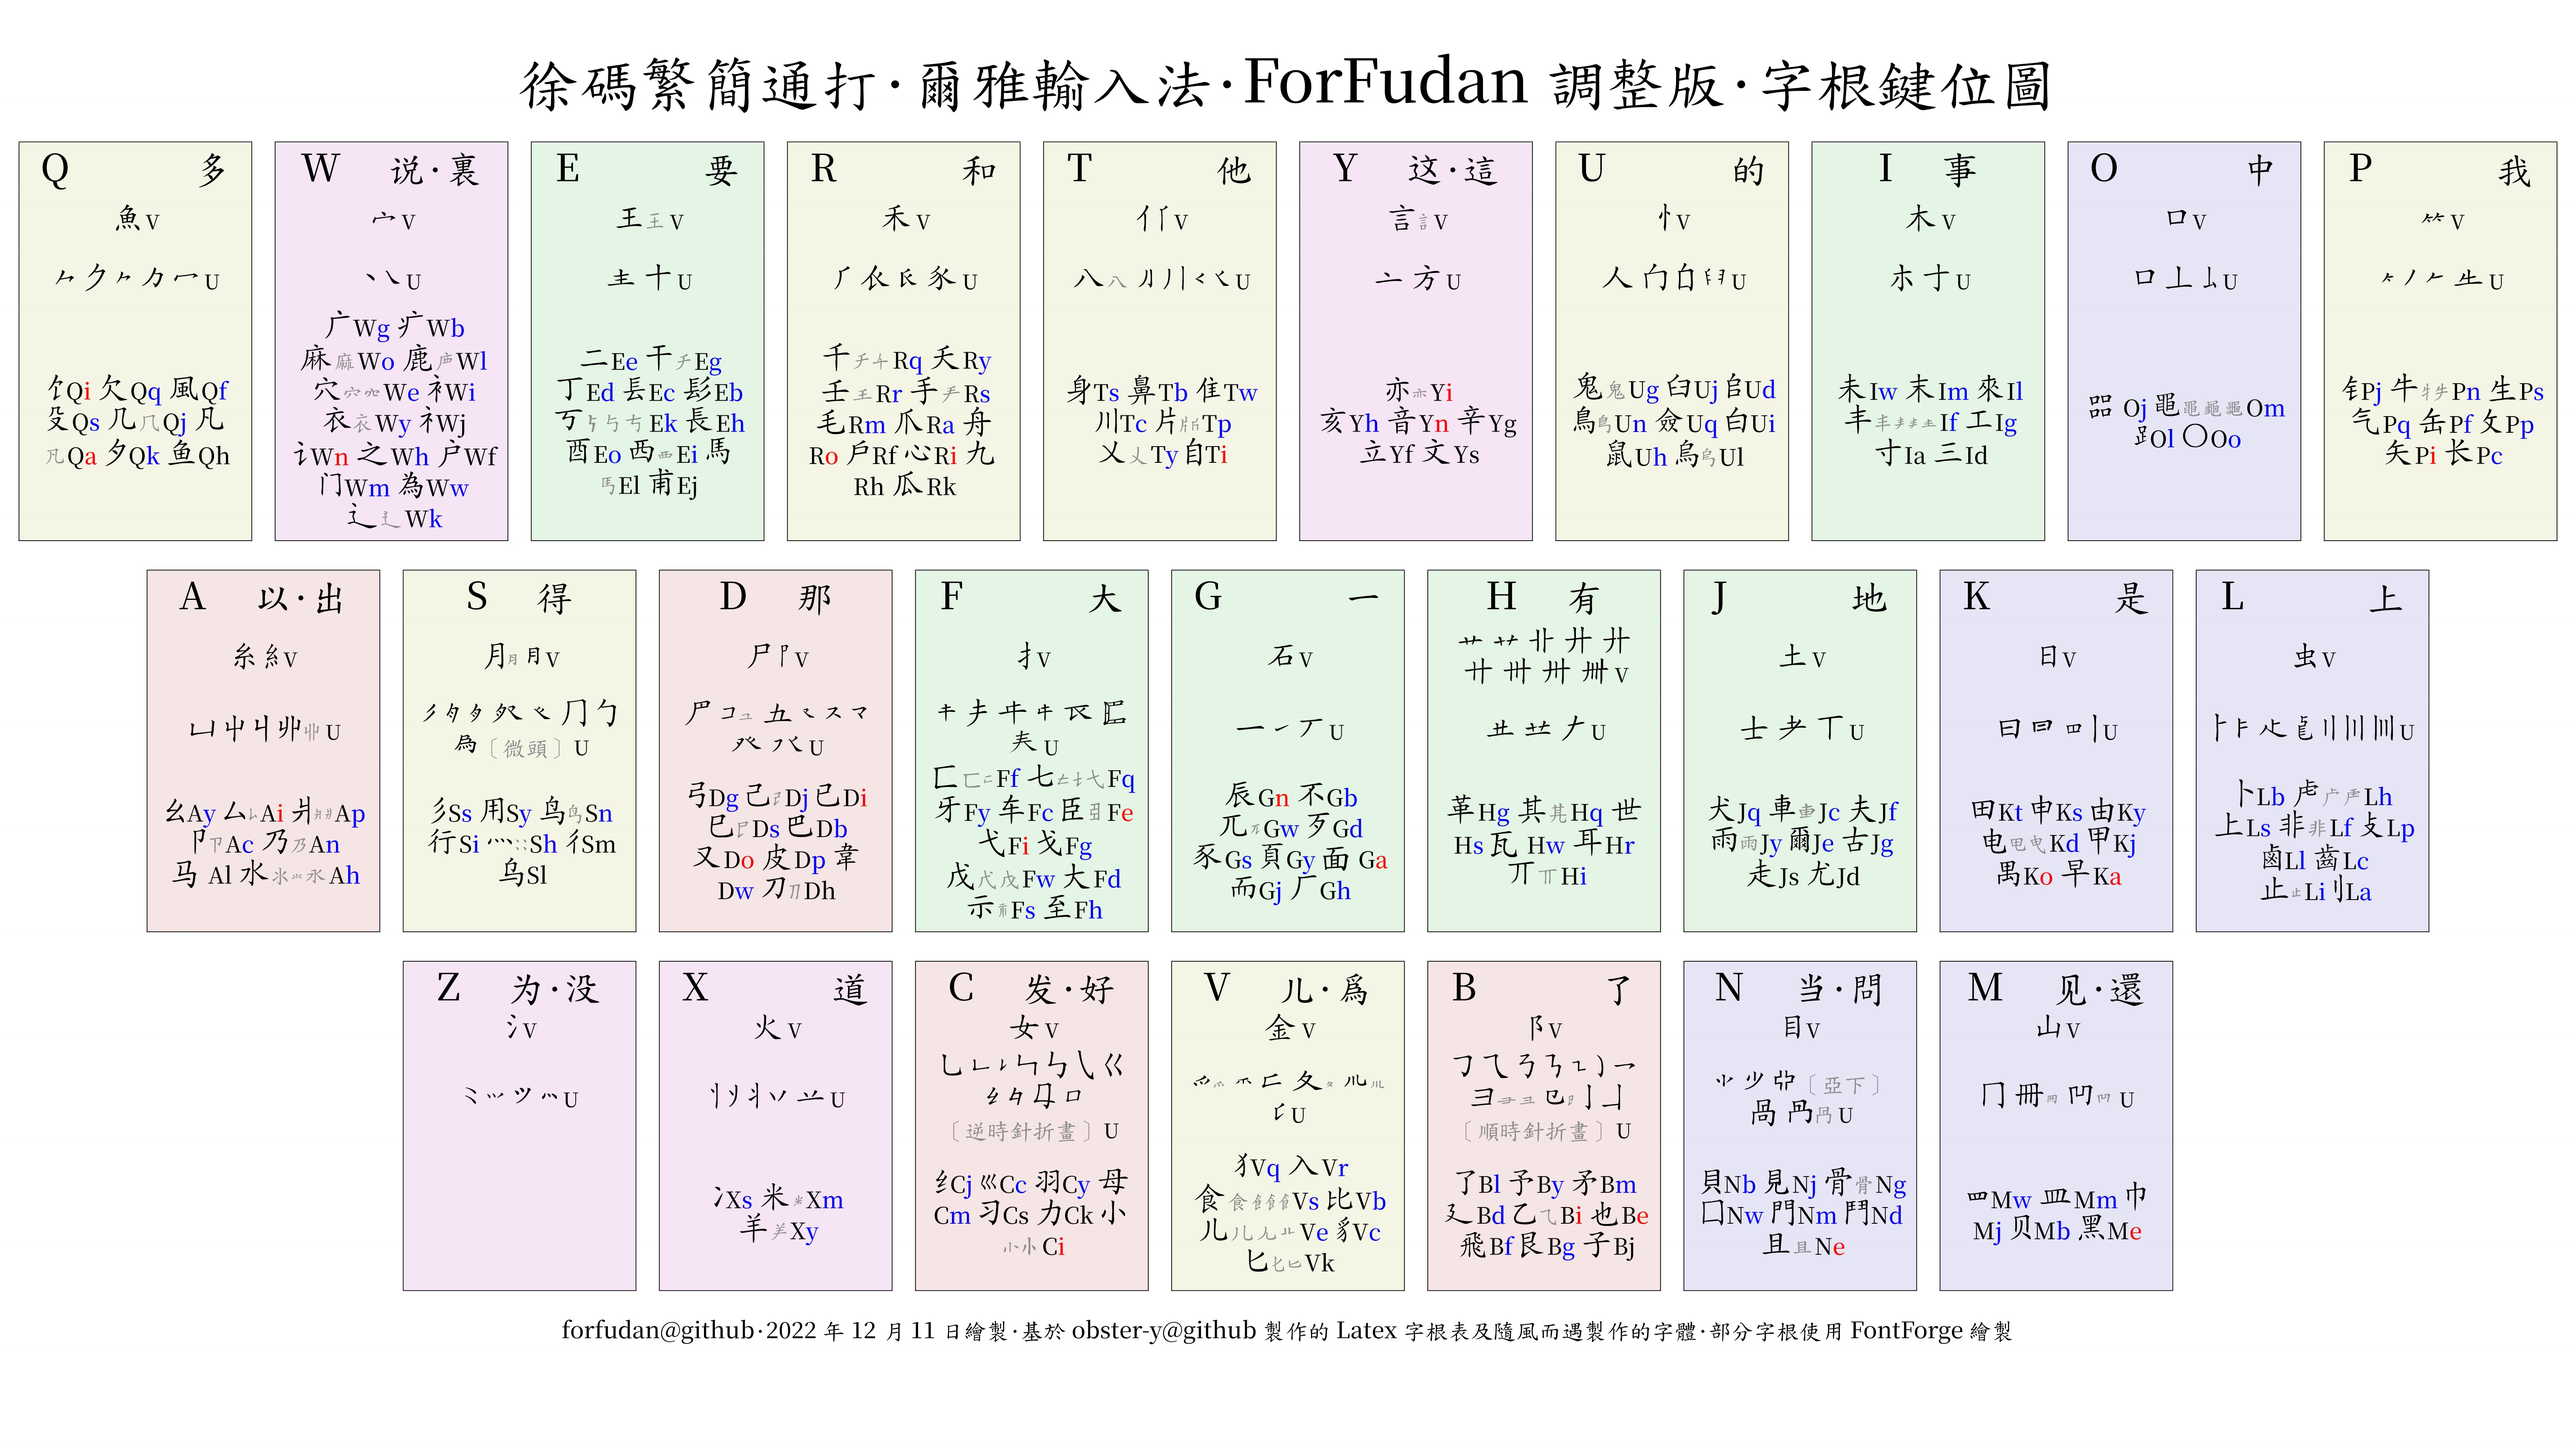
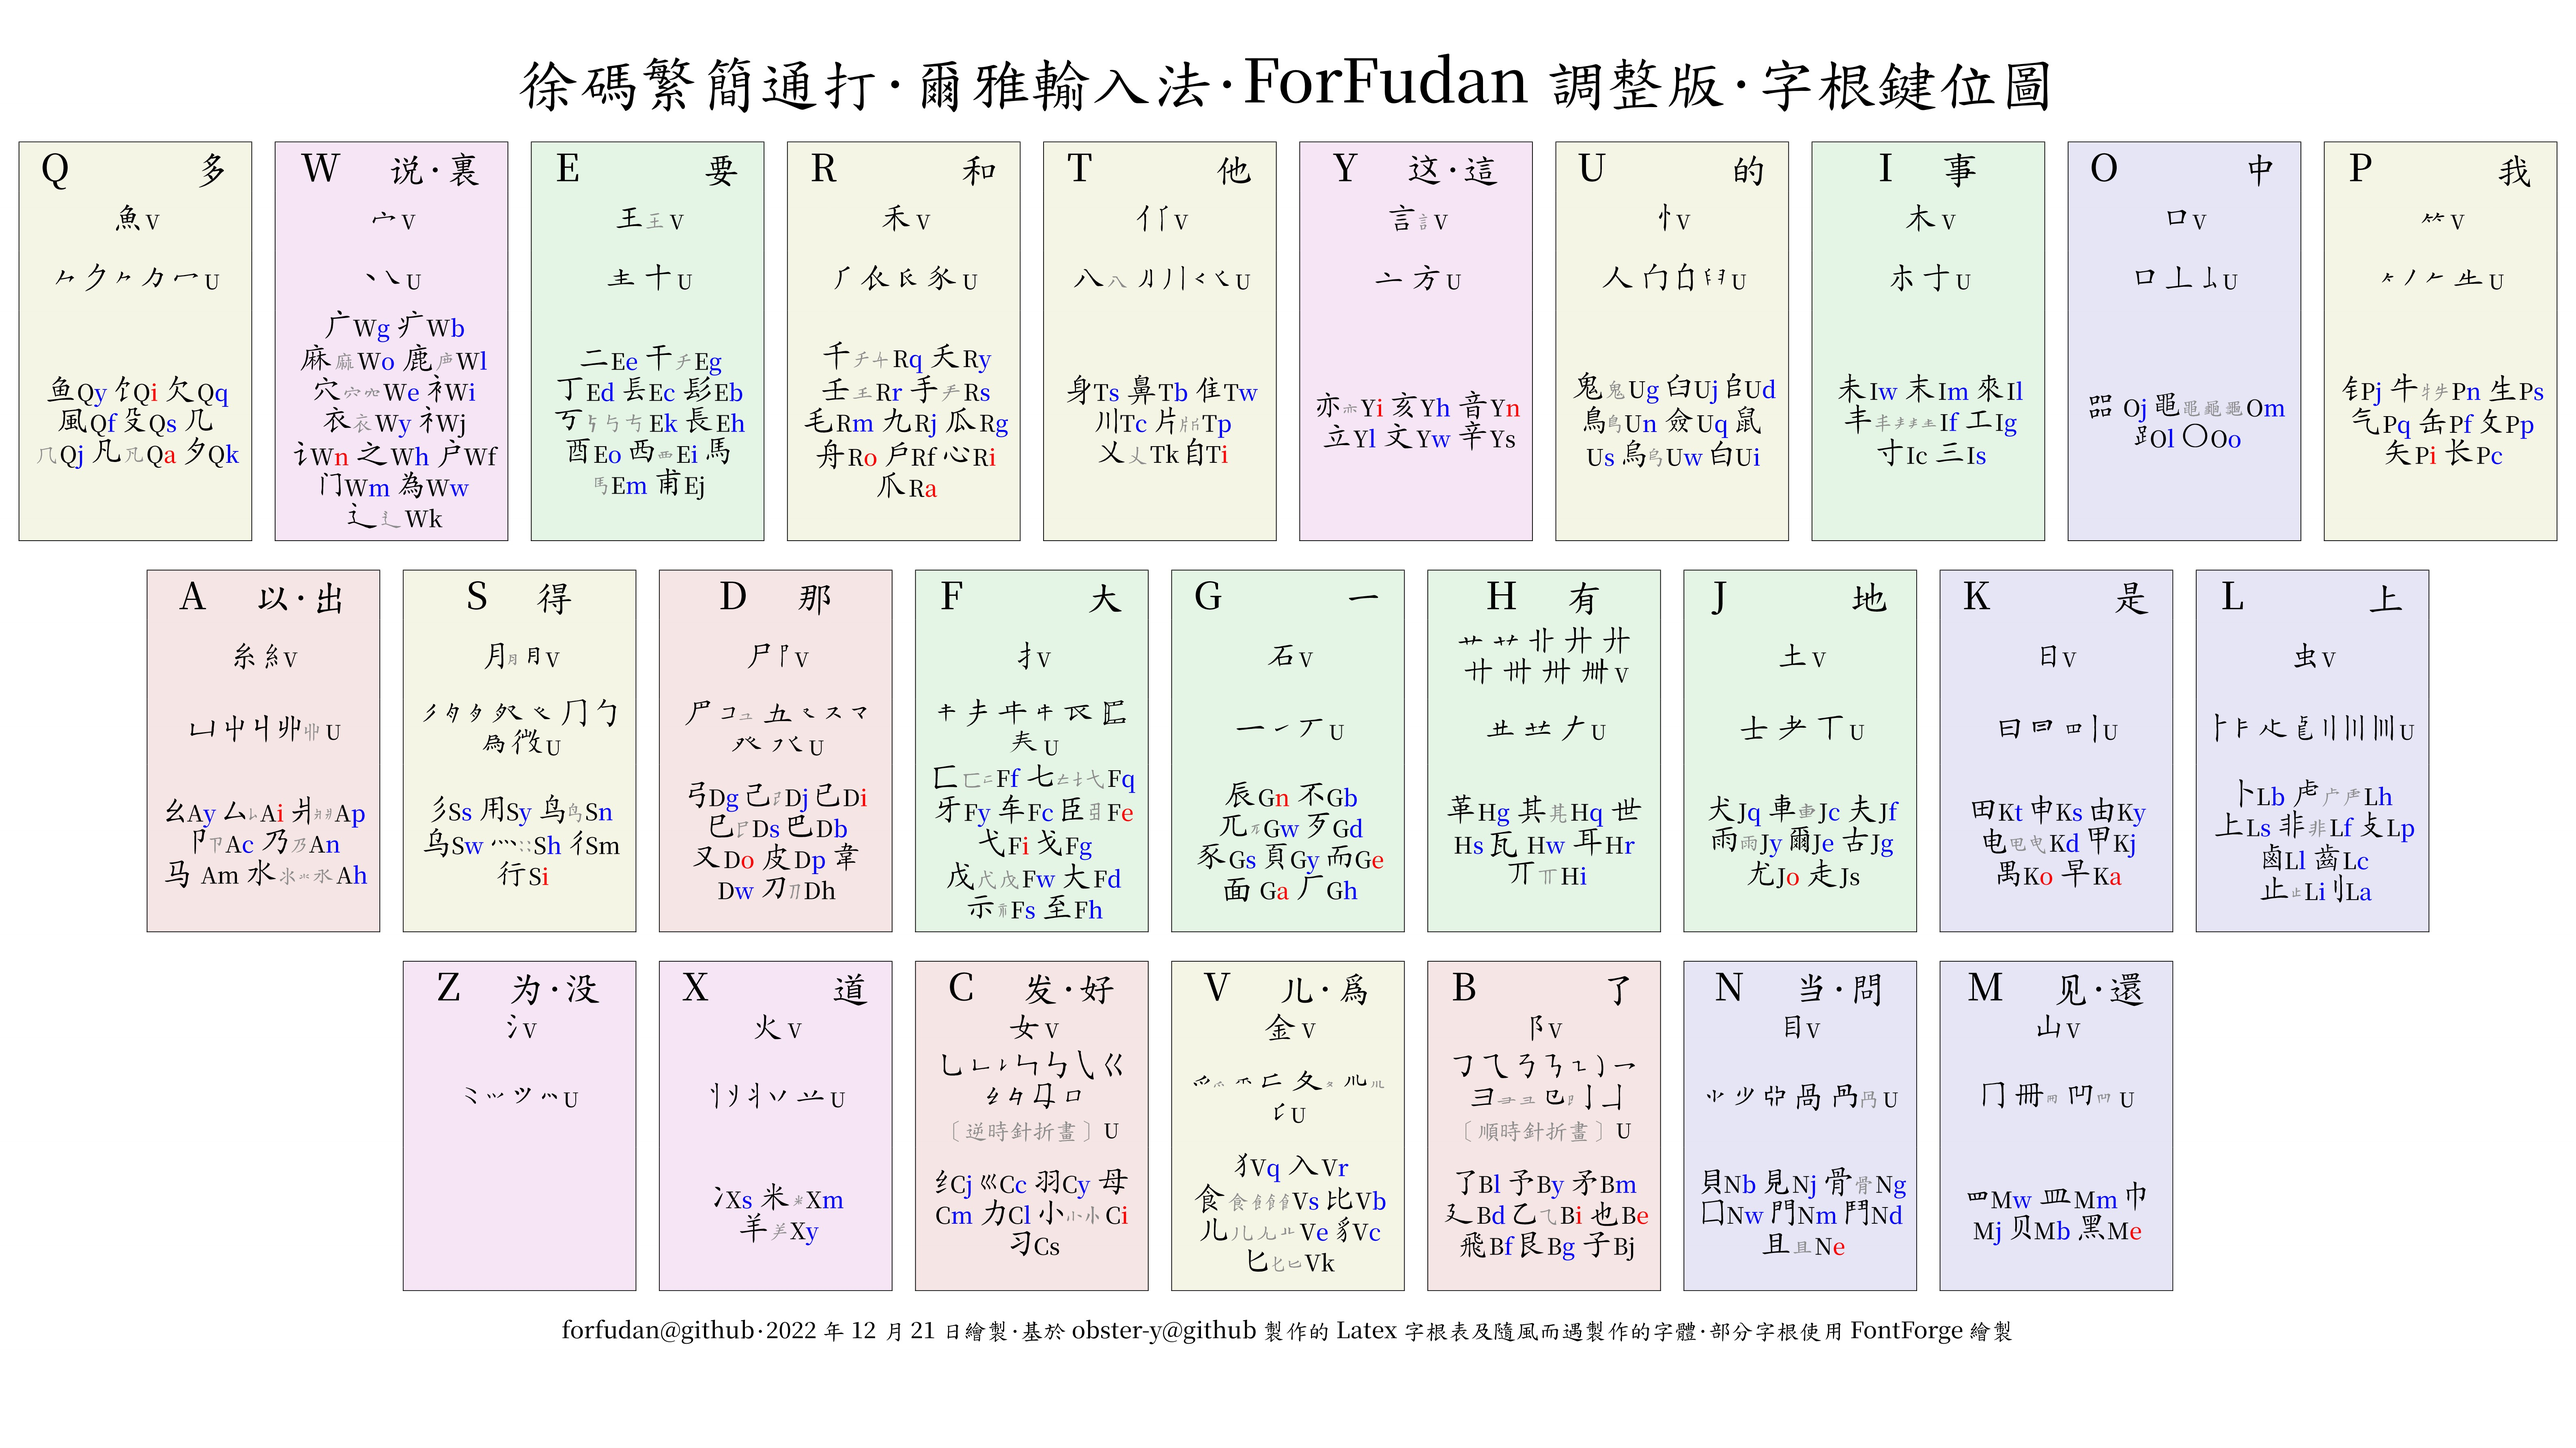
更新字根圖

diff --git a/README.md b/README.md
@@ -535,11 +535,9 @@ GB2312中，除卻不變的重碼字：
 
 ### 4.6. 字根圖
 
-待補。
+本方案字根图如下（调整的字根放在最后）：
 
-<!-- 本方案字根图如下（调整的字根放在最后）：
-
-![徐碼字根鍵位圖ForFudan調整](/resources/徐碼字根鍵位圖ForFudan調整.jpg) -->
+![徐碼字根鍵位圖ForFudan調整](/resources/徐碼字根鍵位圖ForFudan調整.jpg)
 
 ### 4.7. 更新日志
 
